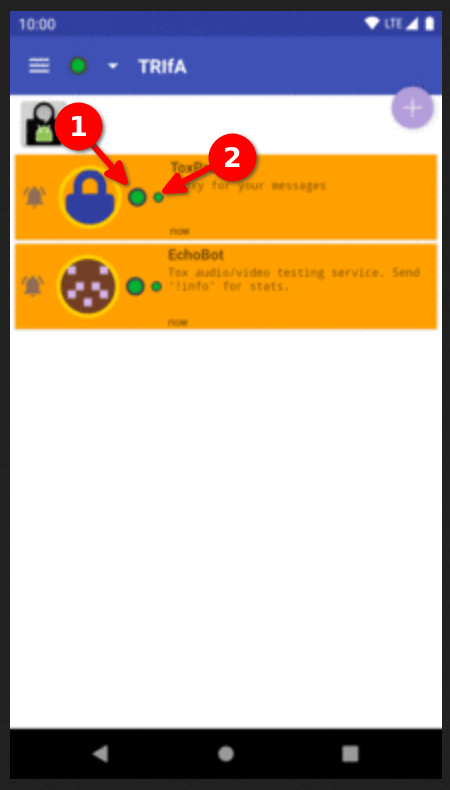
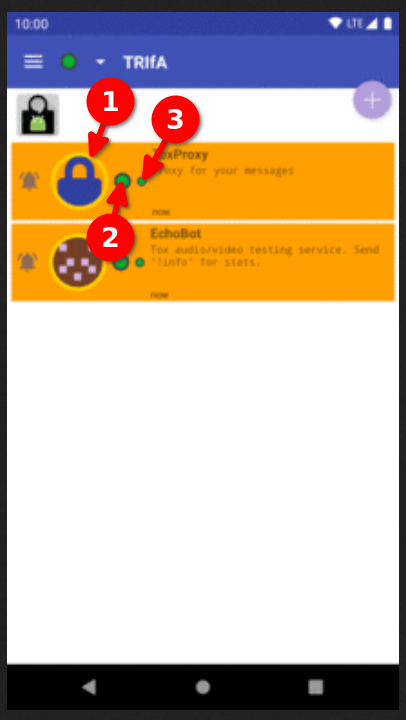
Update info and picture

diff --git a/faq.md b/faq.md
@@ -15,9 +15,15 @@ There are two circles next to a contact, see
 
 ![Example Trifa Contact List](./doc/trifa-contact-list.png)
 
-* if `1` is
-    * green, it means that the contact is **online**
-    * red, it means that the contact is **offline**
-* if `2` is
-    * green, it means that the contact ??
-    * red, it means that the contact ??
+* the circle around avatar (`1`) tells the connection type, like
+    * <span style="background-color: green; color: white">green</span> -> friend is online via UDP
+    * <span style="background-color: yellow; color: black">yellow</span> -> friend is online via TCP
+    * <span style="background-color: gray; color: white">gray</span> -> friend is offline
+* the bigger circle (`2`) tells the conncetion status, like
+    * <span style="background-color: green; color: white">green</span> -> friend has toxproxy (for offline messages) and proxy is online
+    * <span style="background-color: yellow; color: black">yellow</span> -> friend has PUSH notification feature
+    * <span style="background-color: red; color: white">red</span> -> friend has toxproxy (for offline messages) but it is offline
+* the smaller circle (`3`) tells the contact/user status, like
+    * <span style="background-color: green; color: white">green</span> -> friend set status to "I'm available"
+    * <span style="background-color: yellow; color: black">yellow</span> -> friend set status to "I'm away"
+    * <span style="background-color: red; color: white">red</span> -> friend set status to "I'm busy"
